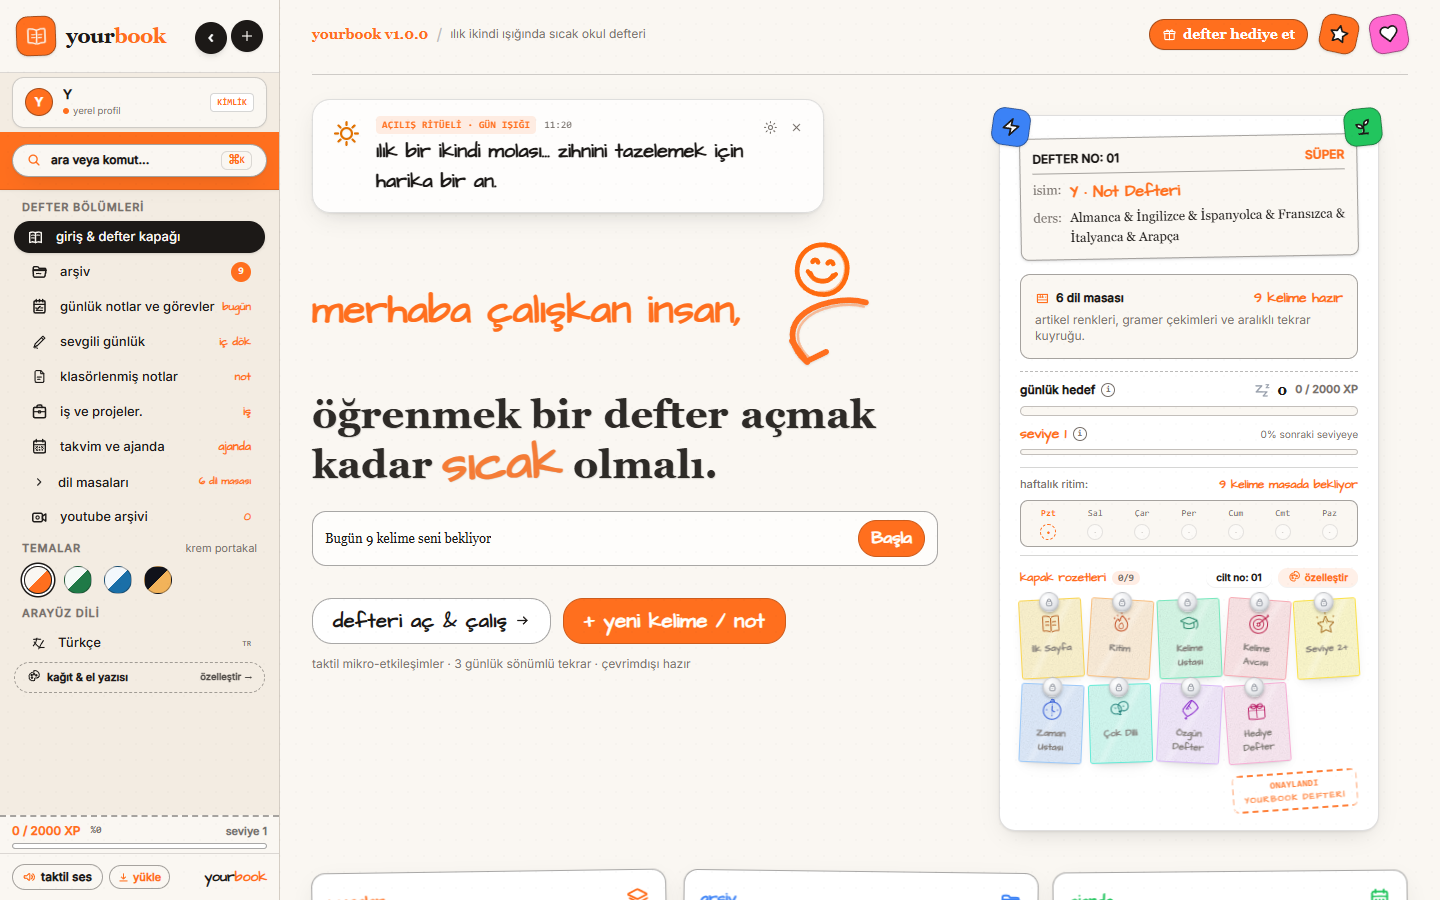
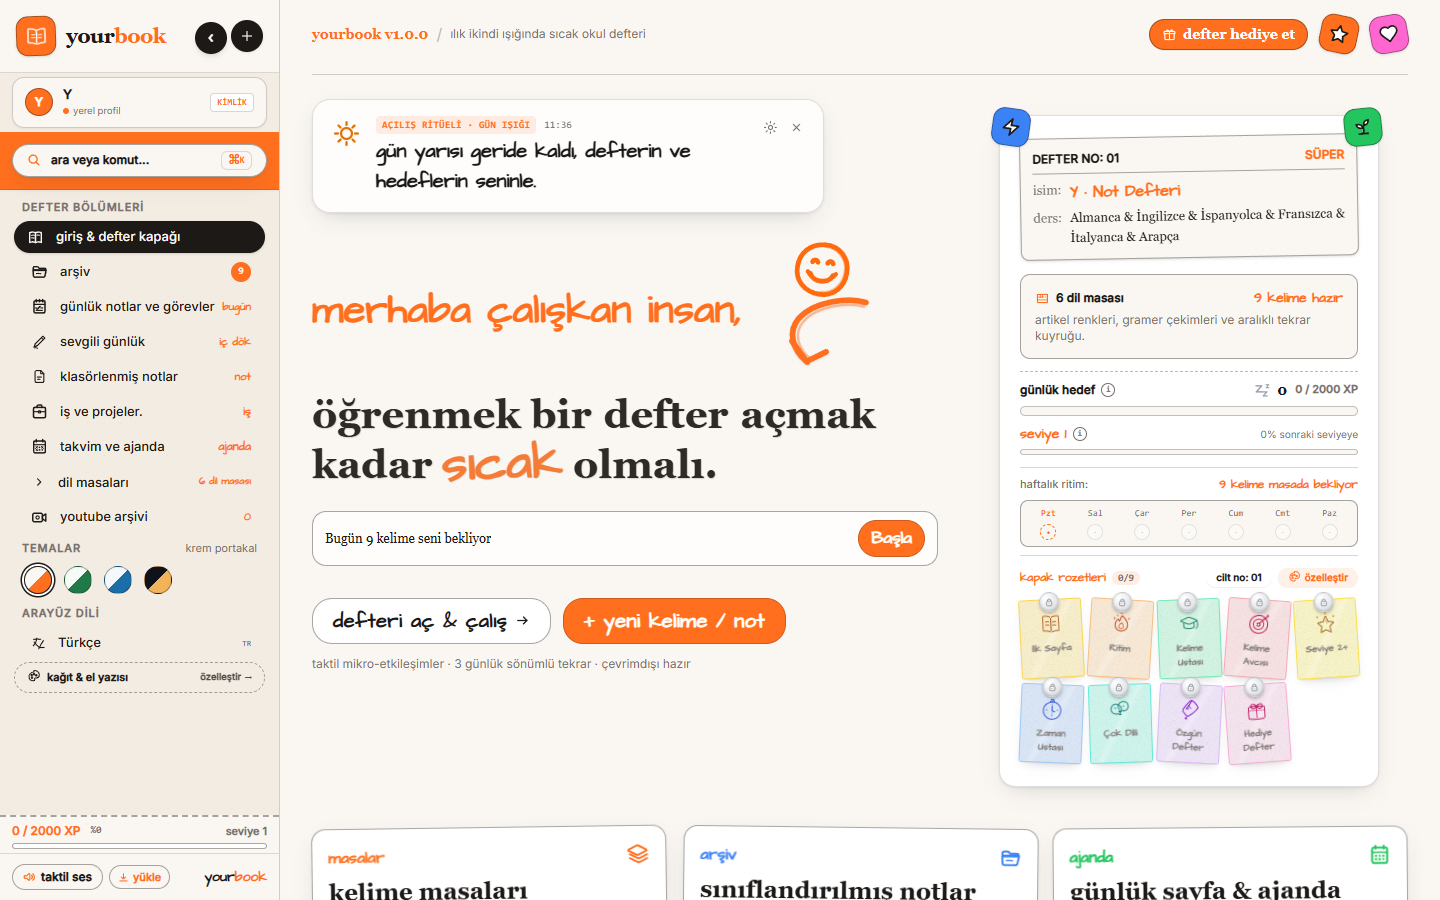
design(hero): kapak kartindaki ONAYLANDI muhur damgasi kaldirildi

Changed region(s): [[0.4375, 0.84, 0.9688, 1.0], [0.25, 0.1556, 0.5312, 0.2178], [0.2188, 0.9333, 0.375, 1.0]]

diff --git a/src/components/CoverStickerCluster.tsx b/src/components/CoverStickerCluster.tsx
@@ -169,20 +169,6 @@ export function CoverStickerCluster({
           );
         })}
       </div>
-
-      {/* Mürekkep Damgası (Vintage Ink Stamp) */}
-      {stampConfig && activeStamp !== "none" && (
-        <div className="mt-1.5 flex justify-end">
-          <div className={`ink-stamp-box rotate-[-4deg] ${stampConfig.color}`}>
-            <span className="font-mono text-[9px] font-extrabold tracking-wider">
-              {t(stampConfig.titleKey)}
-            </span>
-            <span className="font-handwritten text-[8.5px] font-semibold opacity-90">
-              {t(stampConfig.subtitleKey)}
-            </span>
-          </div>
-        </div>
-      )}
     </div>
   );
 }
